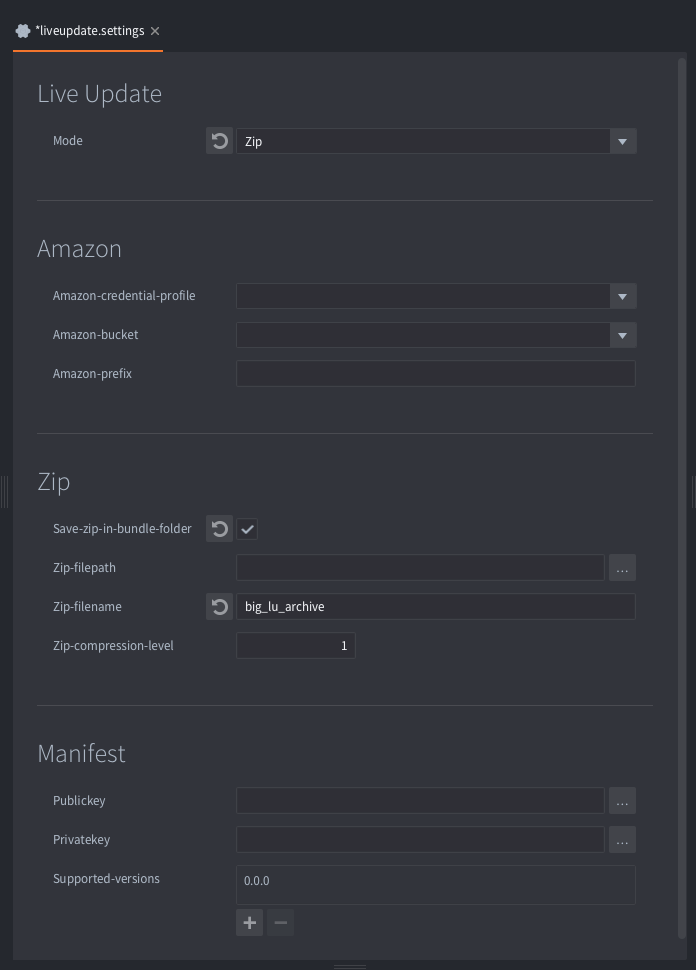
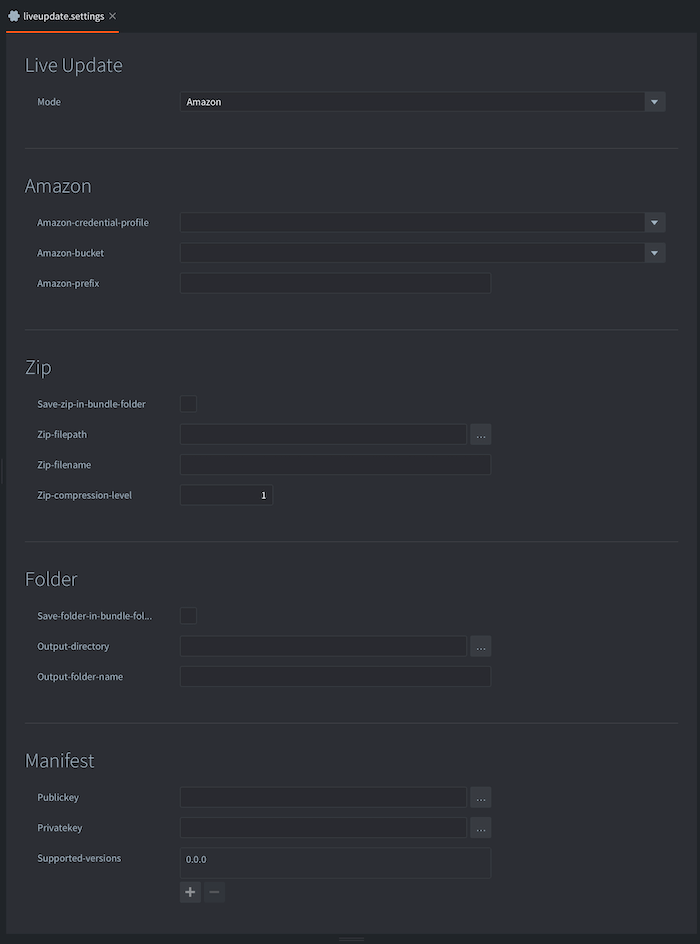
Add info about new "Folder" option in Liveupdate (#558)

diff --git a/docs/en/manuals/live-update.md b/docs/en/manuals/live-update.md
@@ -48,6 +48,9 @@ There are currently two ways that Defold can store the resources. Choose the met
 `Zip`
 : This option tells Defold to create a Zip archive file with any excluded resources. The archive is saved at the location specified in the *Export path* setting.
 
+`Folder`  
+: This option tells Defold to create a folder with all the excluded resources. It works exactly the same way as Zip, but uses a directory instead of an archive. This may be useful in cases where you need to post-process files before uploading and plan to pack them into an archive yourself.
+
 `Amazon`
 : This option tells Defold to automatically upload excluded resources to an Amazon Web Service (AWS) S3 bucket. Fill in your AWS *Credential profile* name, select the appropriate *Bucket* and provide a *Prefix* name.  You can read more on how to setup an AWS account in this [aws guide](/manuals/live-update-aws)
 
